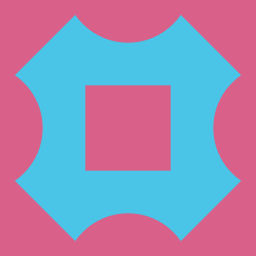
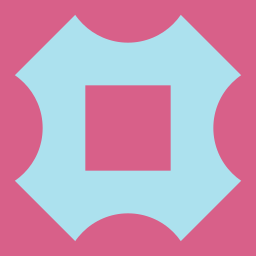
updated colors

diff --git a/data/patterns/generate_pattern.py b/data/patterns/generate_pattern.py
@@ -217,12 +217,17 @@ class CircleSubtractPattern4:
         dwg.save()
 
 
-yellow = 'rgb(230,210,16)'
+#yellow = 'rgb(230,210,16)'
+yellow = 'rgb(255,255,44)'
 green = 'rgb(31,161,97)'
-darkblue = 'rgb(49,105,142)'
-lightblue = 'rgb(74,196,231)'
+#darkblue = 'rgb(49,105,142)'
+darkblue = 'rgb(36,71,115)'
+blue = 'rgb(74,196,231)'
+#lightblue = 'rgb(74,196,231)'
+lightblue = 'rgb(172,225,238)'
 pink = 'rgb(216,96,137)'
-purple = 'rgb(103,46,91)'
+#purple = 'rgb(103,46,91)'
+purple = 'rgb(99,0,132)'
 tapestry = 'rgb(163,84,105)'
 orange = 'orange'
 
@@ -235,14 +240,14 @@ RoundCrossPattern(pink, yellow).save('pattern6.svg')
 CrossPattern(purple, lightblue).save('pattern7.svg')
 PlusPattern(purple, yellow).save('pattern8.svg')
 CrossPattern(green, orange).save('pattern9.svg')
-MultiSquarePattern(lightblue, pink).save('pattern10.svg')
+MultiSquarePattern(blue, pink).save('pattern10.svg')
 SquarePattern(yellow, green).save('pattern11.svg')
 RoundCrossPattern(darkblue, orange).save('pattern12.svg')
 MultiSquarePattern(pink, yellow).save('pattern13.svg')
-StarPattern(yellow, lightblue).save('pattern14.svg')
+StarPattern(yellow, blue).save('pattern14.svg')
 RoundCrossPattern(green, pink).save('pattern15.svg')
 StarPattern(tapestry, yellow).save('pattern16.svg')
-CrossPattern(lightblue, pink).save('pattern17.svg')
+CrossPattern(blue, pink).save('pattern17.svg')
 MultiSquarePattern(yellow, darkblue).save('pattern18.svg')
 StarPattern(orange, tapestry).save('pattern19.svg')
 SquarePattern(darkblue, lightblue).save('pattern20.svg')

diff --git a/ui/ui.py b/ui/ui.py
@@ -1,6 +1,6 @@
 import pygame
 
-GRAY = (120, 120, 120)#(192, 192, 192)
+GRAY = (53, 87, 100)#(192, 192, 192)
 EMPTY_GRAY = (192, 192, 192)#(120, 120, 120)
 WHITE = (255, 255, 255)
 BLUE = (0, 0, 255)
